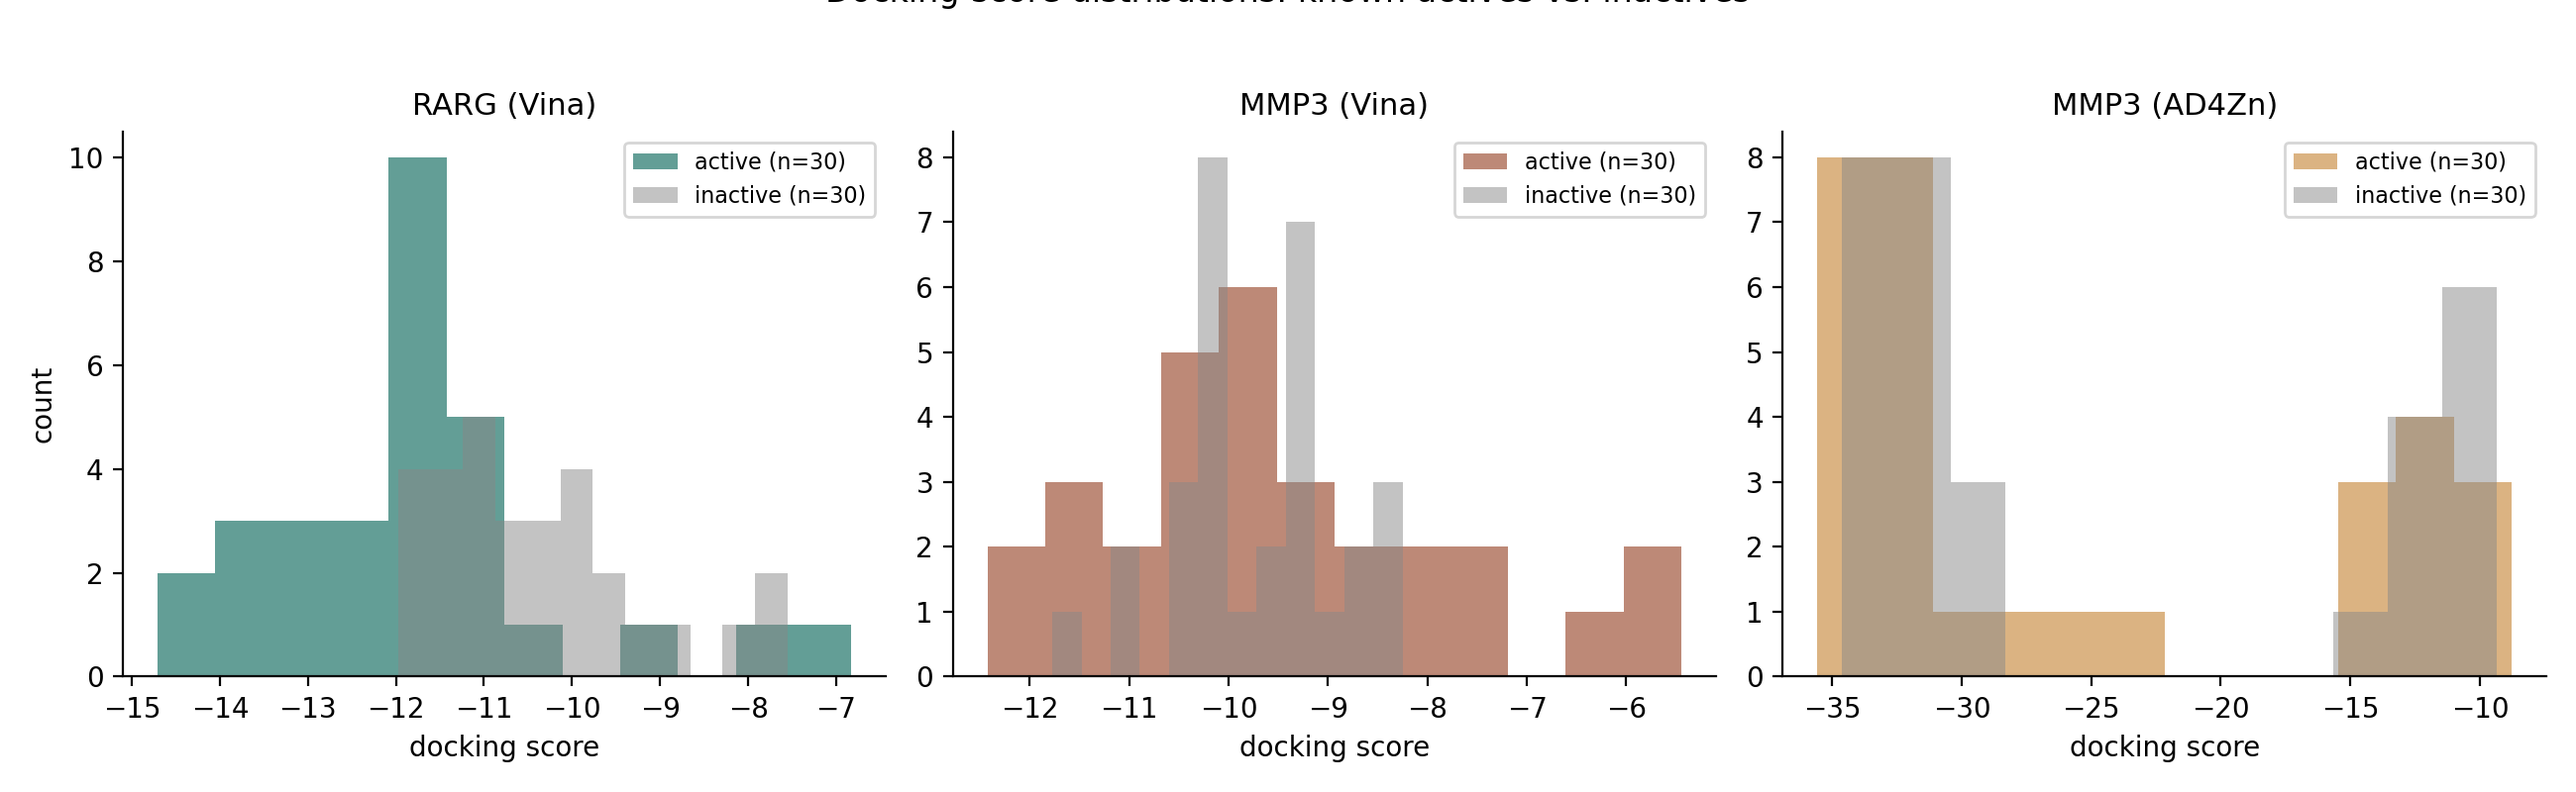
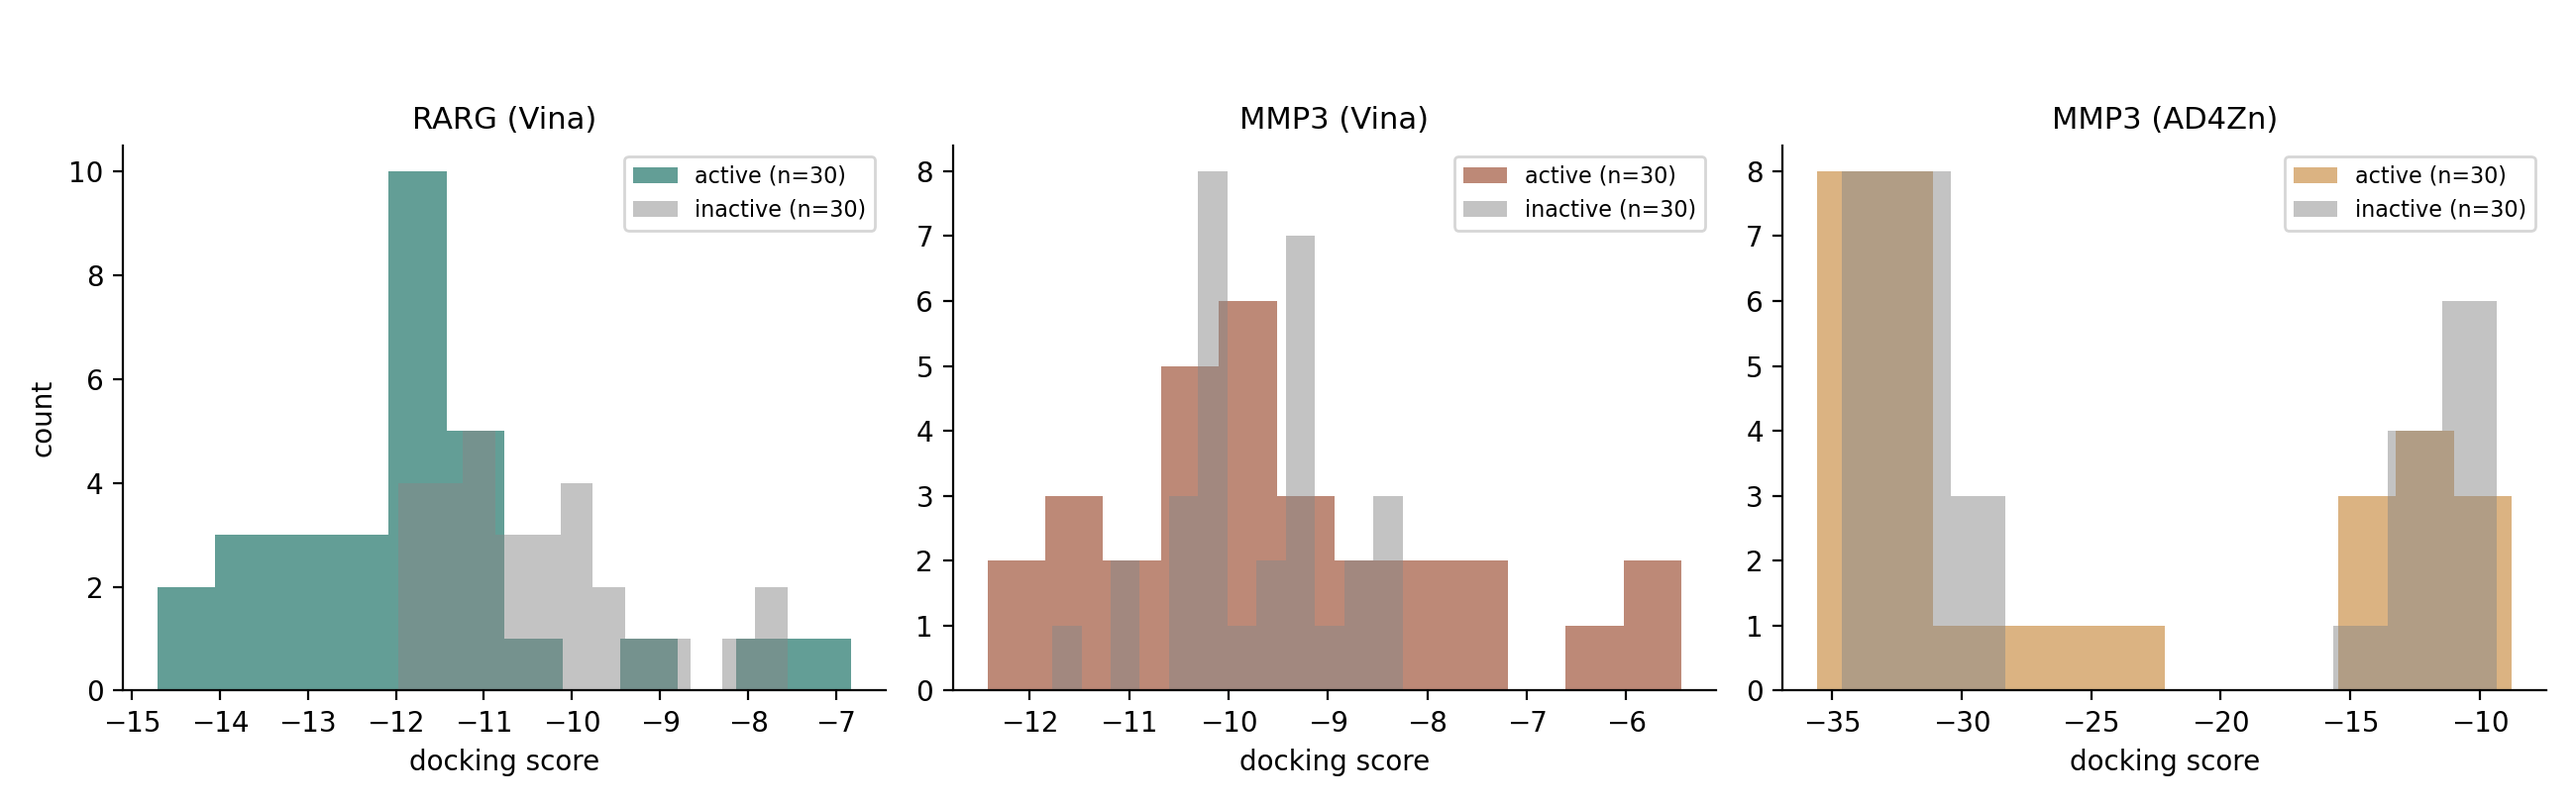
Add the missing funnel script and fix the clipped distributions figure
The provenance table claimed render_pocket_figure.py produced the pipeline
funnel and discrimination_stats.py produced the ROC and score-distribution
plots. Neither was true: the first only draws pocket shapes, the second
draws nothing at all, so three of four figures had no generating code in a
public repository the manuscript cites for reproducibility.

render_pipeline_funnel.py now draws Figure 1 from the stage counts alone,
replacing a rendering whose labels overlapped and were cut off, and
score_distributions.png loses the clipped title band that never fitted its
canvas; its caption carries the title instead.

diff --git a/target_validation/render_pipeline_funnel.py b/target_validation/render_pipeline_funnel.py
@@ -1,0 +1,100 @@
+"""Render the candidate-selection funnel (Figure 1 of the manuscript).
+
+Every stage count below is stated in the article's Section 3.2 and traces
+back to the screening scripts in this directory:
+
+    604  skin tissue-specific genes          fetch_skin_targets.py
+    118  with an Open Targets target class   fetch_skin_targets.py
+     26  with confirmed pocket evidence      compare_pockets.py
+      3  flagged by both rankings + biology  compare_pockets.py
+      2  carried into cross-docking          (MMP3, RARG)
+
+This figure is pure bookkeeping -- it needs no data files, so it can be
+regenerated anywhere:
+
+    python render_pipeline_funnel.py
+"""
+from pathlib import Path
+
+import matplotlib
+
+matplotlib.use("Agg")
+import matplotlib.pyplot as plt
+from matplotlib.patches import Polygon
+
+OUT_PNG = Path(__file__).resolve().parent / "figures" / "pipeline_funnel.png"
+
+# (count, label, note) from widest to narrowest.
+STAGES = [
+    (604, "Skin tissue-specific genes", "Human Protein Atlas expression filter"),
+    (118, "Druggable target class", "Open Targets annotation (486 excluded)"),
+    (26, "Confirmed pocket evidence", "highest-confidence tier, carried to fpocket"),
+    (3, "Flagged candidates", "top of both rankings: MMP3, NTF4, BLMH"),
+    (2, "Cross-docked", "MMP3 and RARG"),
+]
+
+# Sequential ramp, dark at the top of the funnel to light at the tip; the
+# count is also printed on every band, so colour never carries meaning alone.
+COLORS = ["#1b4f4a", "#2f7d6e", "#5aa392", "#93c4b4", "#c9e0d6"]
+
+BAND_H = 1.0          # height of each band in data units
+GAP = 0.28            # vertical gap between bands
+MIN_W = 0.22          # width of the narrowest band, as a fraction of the widest
+
+
+def band_width(count: int, widest: int) -> float:
+    """Width for a stage, log-scaled so 2 of 604 stays visible."""
+    import math
+
+    frac = math.log10(count + 1) / math.log10(widest + 1)
+    return MIN_W + (1.0 - MIN_W) * frac
+
+
+def main() -> None:
+    widest = STAGES[0][0]
+    fig, ax = plt.subplots(figsize=(7.2, 5.4), dpi=300)
+
+    top = 0.0
+    for i, (count, label, note) in enumerate(STAGES):
+        w = band_width(count, widest)
+        w_next = band_width(STAGES[i + 1][0], widest) if i + 1 < len(STAGES) else w
+        bottom = top - BAND_H
+
+        # Trapezoid tapering towards the next stage's width.
+        ax.add_patch(
+            Polygon(
+                [(-w / 2, top), (w / 2, top), (w_next / 2, bottom), (-w_next / 2, bottom)],
+                closed=True,
+                facecolor=COLORS[i],
+                edgecolor="white",
+                linewidth=1.5,
+            )
+        )
+
+        # n inside the band; label and note outside, so nothing can collide.
+        ax.text(
+            0, top - BAND_H / 2, f"n = {count:,}".replace(",", " "),
+            ha="center", va="center", fontsize=13, fontweight="bold",
+            color="white" if i < 3 else "#17352f",
+        )
+        ax.text(
+            w / 2 + 0.04, top - BAND_H / 2 + 0.13, label,
+            ha="left", va="center", fontsize=11, color="#17352f",
+        )
+        ax.text(
+            w / 2 + 0.04, top - BAND_H / 2 - 0.17, note,
+            ha="left", va="center", fontsize=8.5, color="#5c6b68",
+        )
+
+        top = bottom - GAP
+
+    ax.set_xlim(-0.62, 1.5)
+    ax.set_ylim(top + GAP - 0.25, 0.3)
+    ax.axis("off")
+    fig.tight_layout()
+    fig.savefig(OUT_PNG, bbox_inches="tight", facecolor="white")
+    print(f"wrote {OUT_PNG}")
+
+
+if __name__ == "__main__":
+    main()
